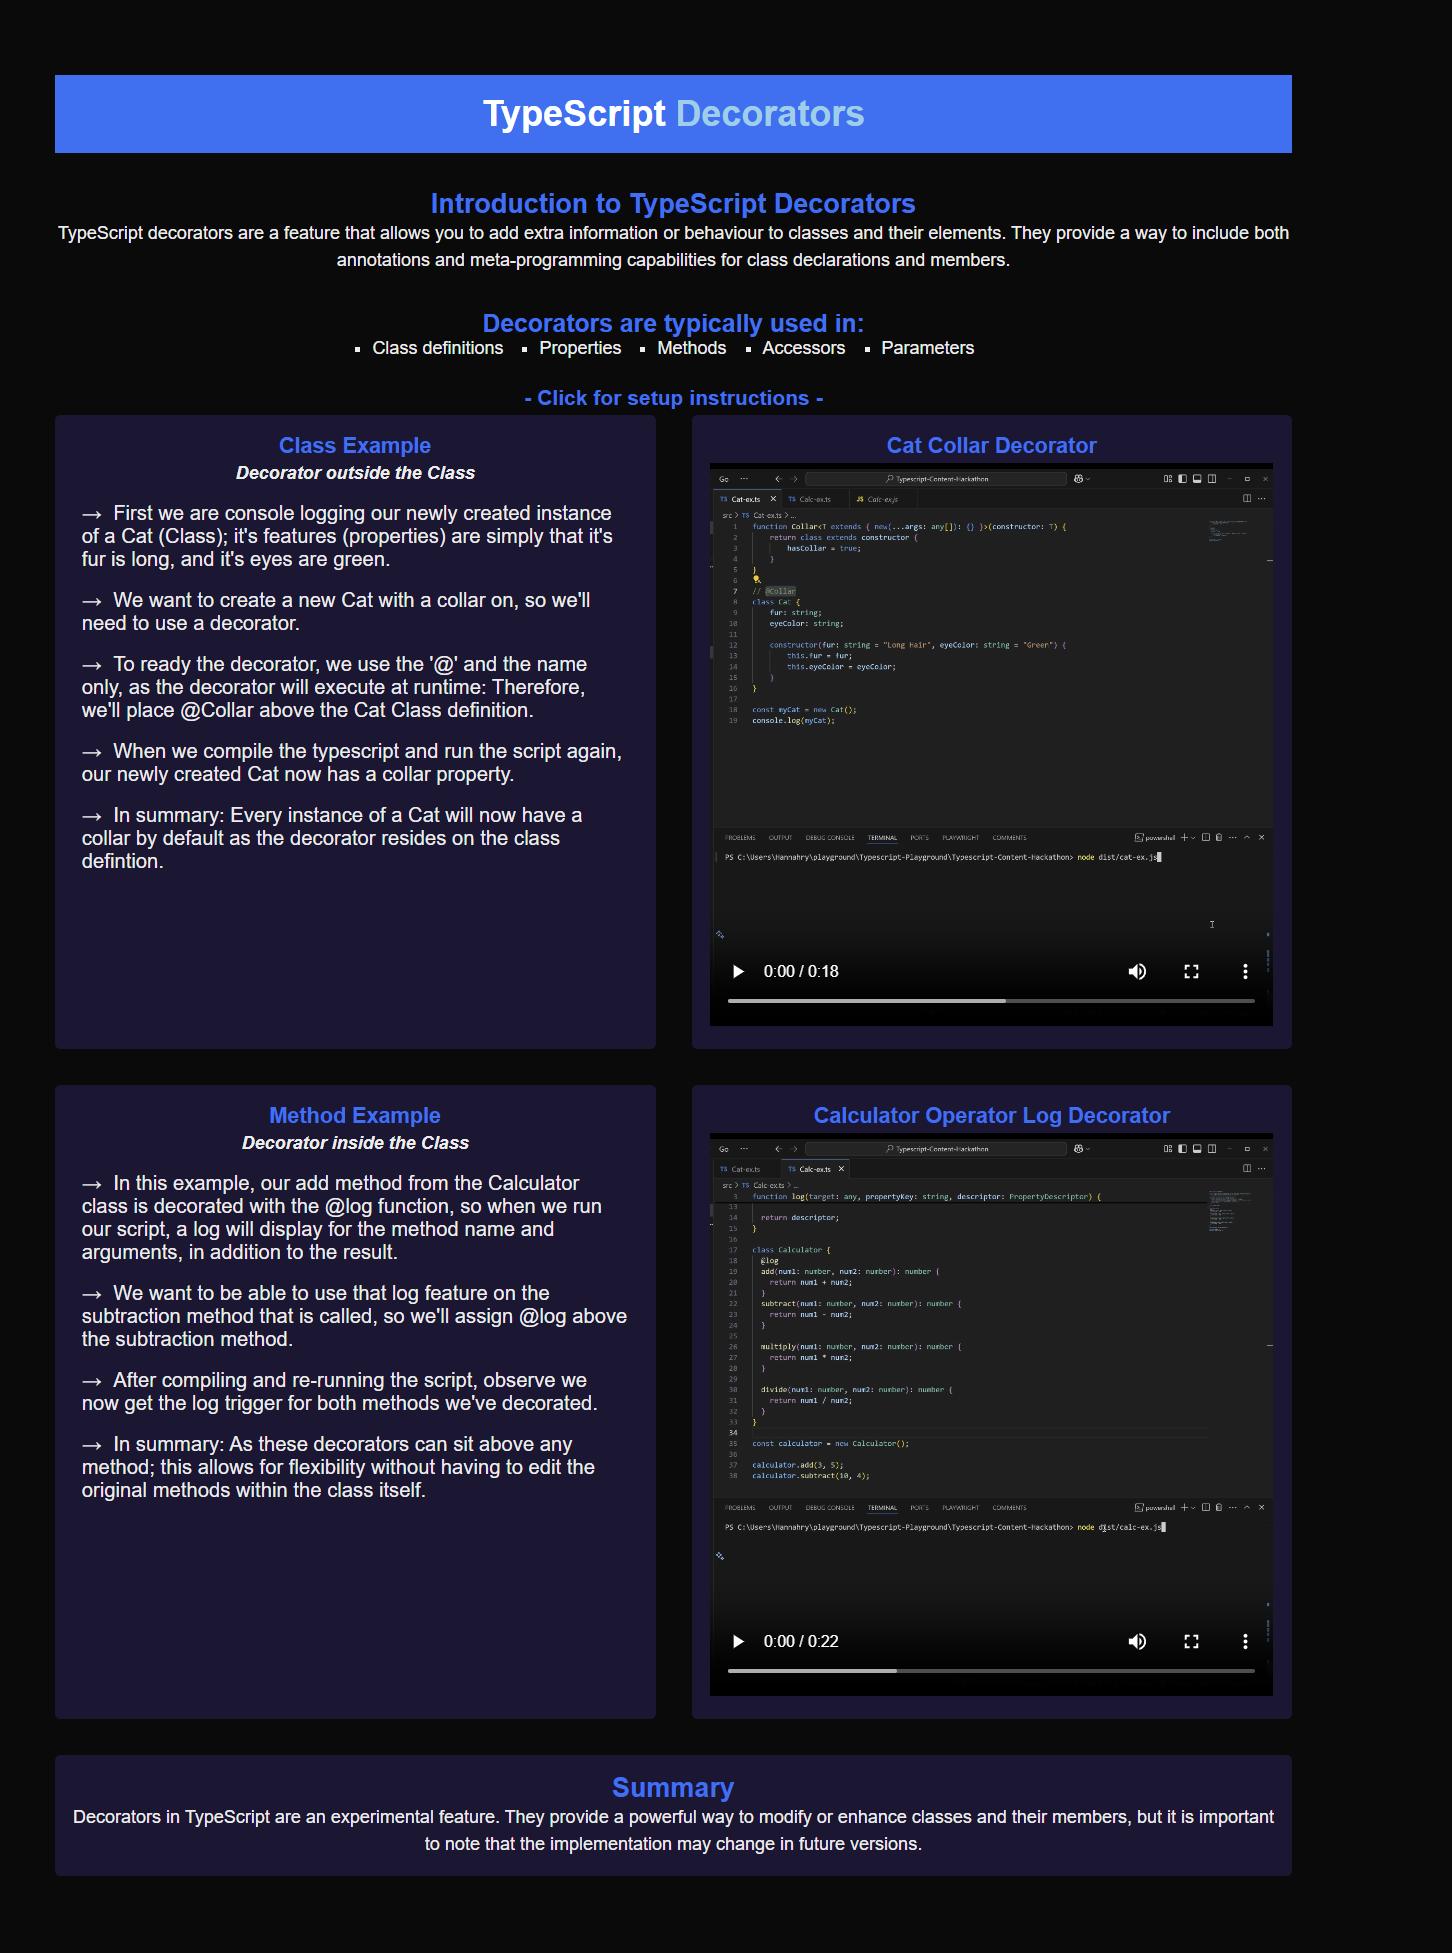
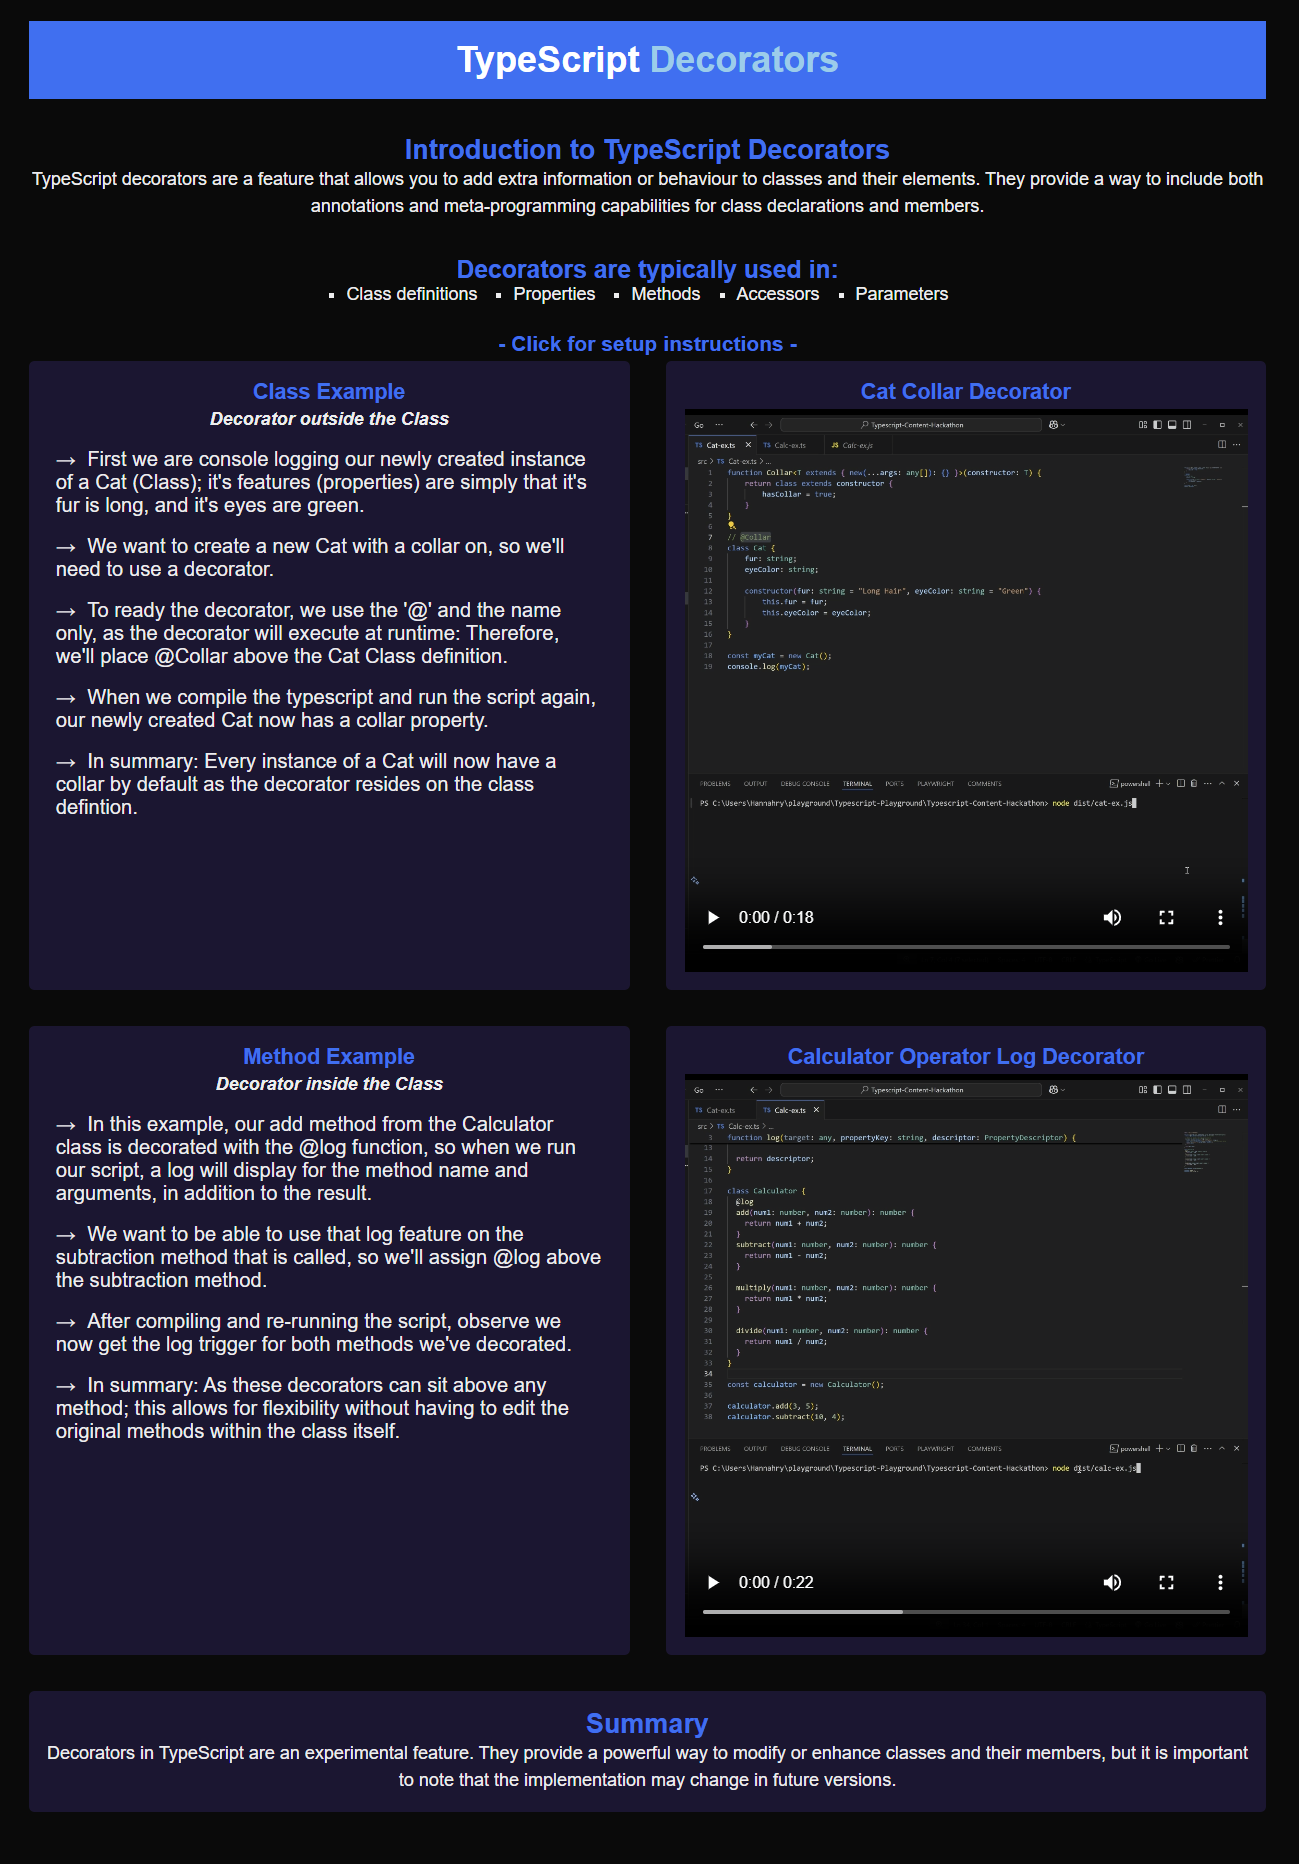
Added better images

Changed region(s): [[0.0, 0.0, 0.9854, 0.9957], [0.5543, 0.4045, 0.7082, 0.4356]]

diff --git a/README.md b/README.md
@@ -47,7 +47,7 @@ At School of Code, we were tasked with creating & sharing an educational piece o
 - Added pointer cursor on hover for Setup to make it more obvious it's interactable.
 
 <h4>Mobile view</h4>
-  <img align = "center" src="/readme-images/TS-Decorator-Mobile.PNG" alt="TypeScript-Tutorial-0-Mobile">
+  <img align = "center" src="/readme-images/TS-Decorator-Mobile.png" alt="TypeScript-Tutorial-0-Mobile">
 
 ## Future Milestones
 
